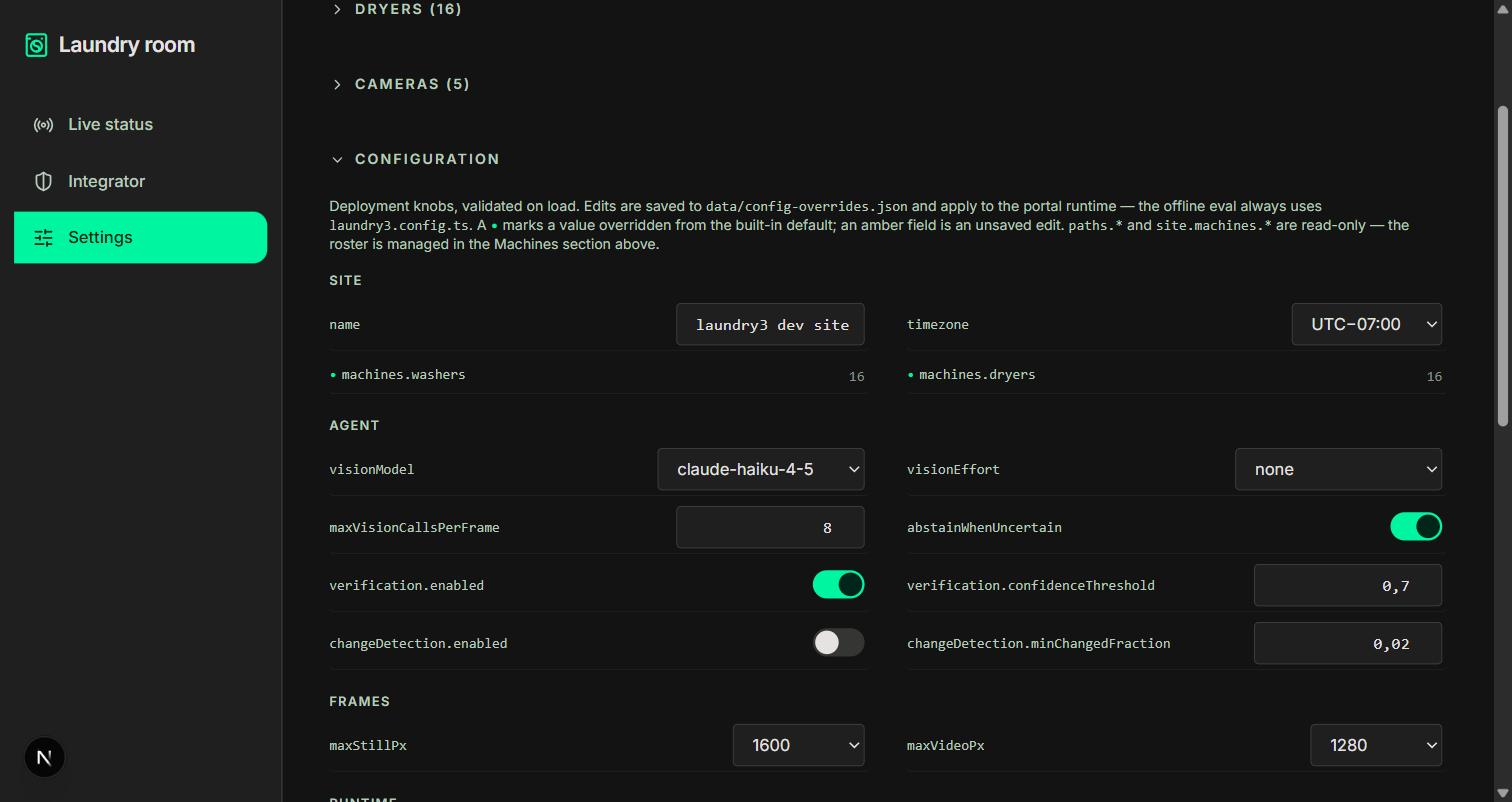
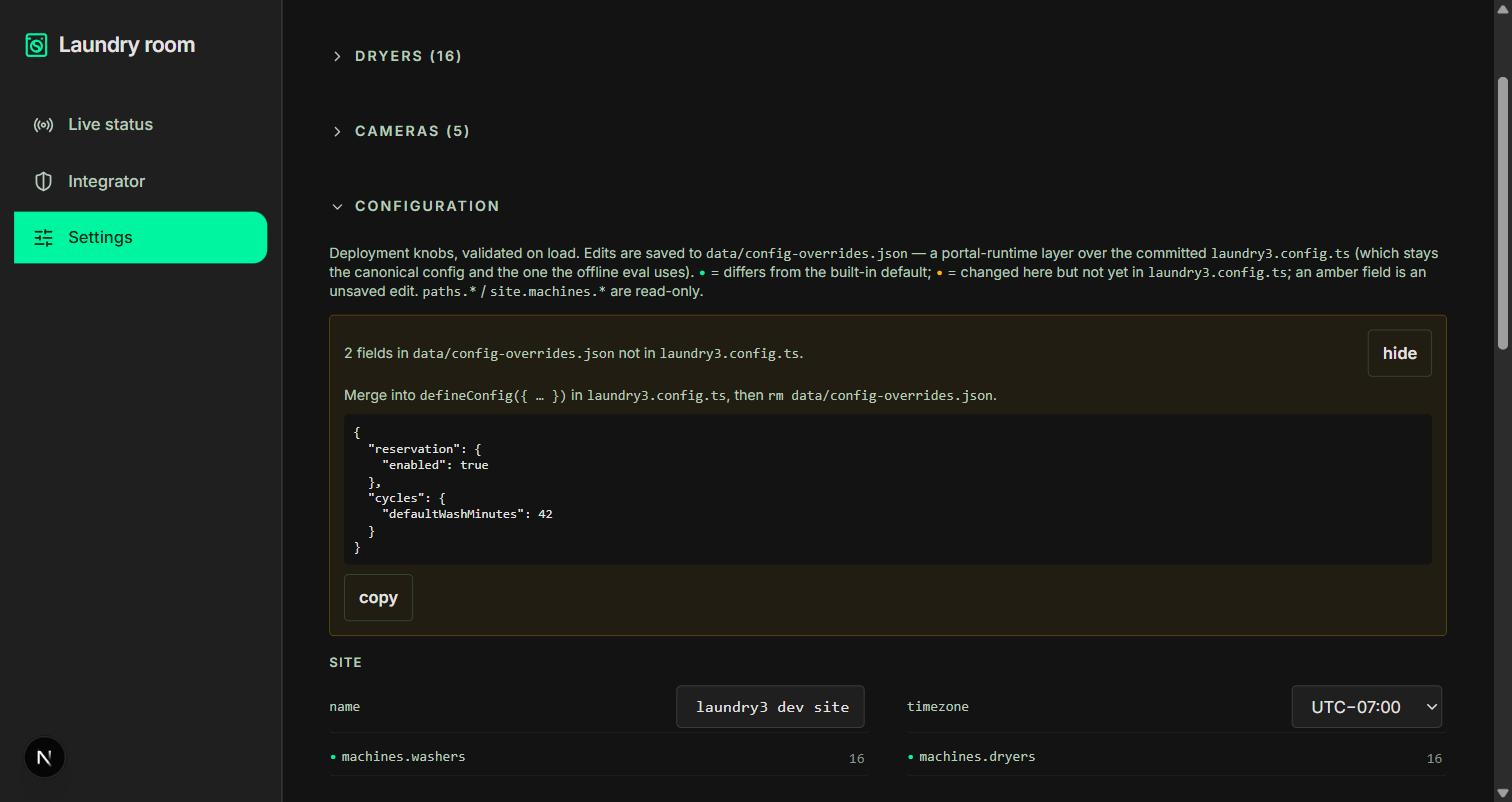
Configuration: show config-overrides.json vs laundry3.config.ts
laundry3.config.ts stays the canonical config (and the one the offline
eval uses); config-overrides.json is a portal-runtime layer on top. Make
the split visible instead of hiding it:

- overrides.ts: diffPaths (exported), baseConfig() (= DEFAULT_CONFIG <-
  laundry3.config.ts), overrideFilePaths() (paths that live only in the
  overrides file). All read-only/pure.
- GET/PATCH /api/config: responses add `base` + `fromFile`.
- ConfigView: per-field `•` is mint for "differs from built-in default",
  amber for "in fromFile" (changed here, not yet in laundry3.config.ts).
  When any amber field exists, a banner shows the count + a "show
  laundry3.config.ts snippet" button emitting a defineConfig({...}) object
  literal of the *saved* values for those fields, with a copy button.
  Intro rewritten to explain the layer model.

Portal-runtime read-only; overrides file still git-ignored and never read
by src/agent/* or src/eval/*. typecheck / lint / build / format:check pass;
npm test 61/61; check:data pass. Curl + Chrome verified (fromFile = exactly
the PATCHed fields; snippet matches).

Also restored a stray working-tree edit to .gitignore (!.env.example had
been commented out by a prior stray prettier run; HEAD was correct).

Compliance: PASS. (One cosmetic reviewer note folded in: snippet now reads
saved values, not the unsaved draft.)

Claude-Session: https://claude.ai/code/session_01Jm2SYvnJZUb5J2RVzmE1MT

diff --git a/src/components/config-view.tsx b/src/components/config-view.tsx
@@ -9,7 +9,13 @@ import { Switch } from "@/components/ui/switch";
 import type { Laundry3Config } from "@/config";
 
 type Cfg = Laundry3Config;
-type Payload = { config?: Cfg; defaults?: Cfg; overridden?: string[]; locked?: string[] };
+type Payload = {
+  config?: Cfg;
+  defaults?: Cfg;
+  overridden?: string[];
+  fromFile?: string[];
+  locked?: string[];
+};
 type Leaf = string | number | boolean;
 
 const GROUPS: { key: keyof Cfg; title: string }[] = [
@@ -184,9 +190,11 @@ export function ConfigView() {
   const [draft, setDraft] = useState<Cfg | null>(null);
   const [defaults, setDefaults] = useState<Cfg | null>(null);
   const [overridden, setOverridden] = useState<Set<string>>(new Set());
+  const [fromFile, setFromFile] = useState<Set<string>>(new Set());
   const [locked, setLocked] = useState<string[]>(["paths.", "site.machines."]);
   const [busy, setBusy] = useState(false);
   const [err, setErr] = useState<string | null>(null);
+  const [snippet, setSnippet] = useState<string | null>(null);
 
   function apply(d: Payload) {
     if (d.config) {
@@ -195,7 +203,18 @@ export function ConfigView() {
     }
     if (d.defaults) setDefaults(d.defaults);
     setOverridden(new Set(d.overridden ?? []));
+    setFromFile(new Set(d.fromFile ?? []));
     if (d.locked) setLocked(d.locked);
+    setSnippet(null);
+  }
+
+  /** An object literal (JSON — quoted keys are valid TS) of the *saved* values that live
+   *  only in the overrides file. Paste into `defineConfig(…)`, then delete the file. */
+  function buildSnippet(): string {
+    if (!loaded) return "{}";
+    let obj: Record<string, unknown> = {};
+    for (const p of fromFile) obj = setPath(obj, p, getPath(loaded, p));
+    return JSON.stringify(obj, null, 2);
   }
 
   useEffect(() => {
@@ -253,16 +272,54 @@ export function ConfigView() {
 
   return (
     <Section title="Configuration">
-      <p className="text-on-surface-variant mb-4 text-xs">
+      <p className="text-on-surface-variant mb-3 text-xs">
         Deployment knobs, validated on load. Edits are saved to{" "}
-        <span className="font-mono">data/config-overrides.json</span> and apply to the portal
-        runtime — the offline eval always uses <span className="font-mono">laundry3.config.ts</span>
-        . A <span className="text-primary-container">•</span> marks a value overridden from the
-        built-in default; an amber field is an unsaved edit.{" "}
-        <span className="font-mono">paths.*</span> and{" "}
-        <span className="font-mono">site.machines.*</span> are read-only — the roster is managed in
-        the Machines section above.
+        <span className="font-mono">data/config-overrides.json</span> — a portal-runtime layer over
+        the committed <span className="font-mono">laundry3.config.ts</span> (which stays the
+        canonical config and the one the offline eval uses).{" "}
+        <span className="text-primary-container">•</span> = differs from the built-in default;{" "}
+        <span className="text-secondary-container">•</span> = changed here but not yet in{" "}
+        <span className="font-mono">laundry3.config.ts</span>; an amber field is an unsaved edit.{" "}
+        <span className="font-mono">paths.*</span> /{" "}
+        <span className="font-mono">site.machines.*</span> are read-only.
       </p>
+
+      {fromFile.size > 0 && draft && (
+        <div className="border-secondary-container/30 bg-secondary-container/[0.06] mb-4 rounded border p-3 text-xs">
+          <div className="flex flex-wrap items-center justify-between gap-2">
+            <span className="text-on-surface-variant">
+              {fromFile.size} field{fromFile.size === 1 ? "" : "s"} in{" "}
+              <span className="font-mono">data/config-overrides.json</span> not in{" "}
+              <span className="font-mono">laundry3.config.ts</span>.
+            </span>
+            <Button
+              variant="outline"
+              onClick={() => setSnippet((s) => (s === null ? buildSnippet() : null))}
+            >
+              {snippet === null ? "show laundry3.config.ts snippet" : "hide"}
+            </Button>
+          </div>
+          {snippet !== null && (
+            <>
+              <p className="text-on-surface-variant mt-2">
+                Merge into <span className="font-mono">defineConfig(&#123; … &#125;)</span> in{" "}
+                <span className="font-mono">laundry3.config.ts</span>, then{" "}
+                <span className="font-mono">rm data/config-overrides.json</span>.
+              </p>
+              <pre className="bg-surface text-2xs text-on-surface mt-2 overflow-x-auto rounded p-2 font-mono">
+                {snippet}
+              </pre>
+              <Button
+                variant="outline"
+                className="mt-2"
+                onClick={() => void navigator.clipboard?.writeText(snippet).catch(() => {})}
+              >
+                copy
+              </Button>
+            </>
+          )}
+        </div>
+      )}
 
       {!draft ? (
         <p className="text-on-surface-variant text-xs">loading…</p>
@@ -287,8 +344,15 @@ export function ConfigView() {
                         }`}
                       >
                         <dt className="text-on-surface-variant min-w-0 truncate font-mono text-xs">
-                          {overridden.has(path) && (
-                            <span className="text-primary-container mr-1" aria-hidden="true">
+                          {(fromFile.has(path) || overridden.has(path)) && (
+                            <span
+                              className={`mr-1 ${
+                                fromFile.has(path)
+                                  ? "text-secondary-container"
+                                  : "text-primary-container"
+                              }`}
+                              aria-hidden="true"
+                            >
                               •
                             </span>
                           )}

diff --git a/src/app/api/config/route.ts b/src/app/api/config/route.ts
@@ -1,8 +1,12 @@
 /**
  * Deployment config for the integrator console.
  *
- *   GET   /api/config              -> { ok, config, defaults, overridden, locked }
- *   PATCH /api/config  <patch>     -> { ok, config, overridden }   (400 on invalid merge)
+ *   GET   /api/config              -> { ok, config, defaults, base, overridden, fromFile, locked }
+ *   PATCH /api/config  <patch>     -> { ok, config, overridden, fromFile }   (400 on bad merge)
+ *
+ * `overridden` = paths differing from the built-in `DEFAULT_CONFIG`. `fromFile` = paths the
+ * portal has changed *from `laundry3.config.ts`* — i.e. what lives only in the git-ignored
+ * `data/config-overrides.json`, not the committed source.
  *
  * `config` is `src/config/defaults.ts` + `laundry3.config.ts` + `data/config-overrides.json`
  * (the last written by PATCH), merged and validated on every request. `patch` is a nested
@@ -22,7 +26,9 @@ import { NextResponse } from "next/server";
 import {
   DEFAULT_CONFIG,
   LOCKED_PREFIXES,
+  baseConfig,
   overriddenPaths,
+  overrideFilePaths,
   resolvePortalConfig,
   writeOverrides,
   type DeepPartial,
@@ -38,7 +44,9 @@ export function GET() {
     ok: true,
     config,
     defaults: DEFAULT_CONFIG,
+    base: baseConfig(),
     overridden: overriddenPaths(config),
+    fromFile: overrideFilePaths(),
     locked: LOCKED_PREFIXES,
   });
 }
@@ -55,7 +63,12 @@ export async function PATCH(req: Request) {
   }
   try {
     const config = writeOverrides(patch);
-    return NextResponse.json({ ok: true, config, overridden: overriddenPaths(config) });
+    return NextResponse.json({
+      ok: true,
+      config,
+      overridden: overriddenPaths(config),
+      fromFile: overrideFilePaths(),
+    });
   } catch (e) {
     return NextResponse.json(
       { error: e instanceof Error ? e.message : "invalid config" },

diff --git a/src/config/overrides.ts b/src/config/overrides.ts
@@ -76,19 +76,32 @@ export function writeOverrides(
   return resolved;
 }
 
+/** Dotted paths where `a` and `b` differ (recursing objects, comparing leaves). */
+export function diffPaths(a: unknown, b: unknown, prefix = ""): string[] {
+  if (a && b && typeof a === "object" && !Array.isArray(a)) {
+    return Object.keys(a as Record<string, unknown>).flatMap((k) =>
+      diffPaths(
+        (a as Record<string, unknown>)[k],
+        (b as Record<string, unknown>)[k],
+        prefix ? `${prefix}.${k}` : k,
+      ),
+    );
+  }
+  return a === b ? [] : [prefix];
+}
+
 /** Dotted paths whose value in `cfg` differs from `DEFAULT_CONFIG`. */
 export function overriddenPaths(cfg: Laundry3Config): string[] {
-  const walk = (a: unknown, b: unknown, prefix = ""): string[] => {
-    if (a && b && typeof a === "object" && !Array.isArray(a)) {
-      return Object.keys(a as Record<string, unknown>).flatMap((k) =>
-        walk(
-          (a as Record<string, unknown>)[k],
-          (b as Record<string, unknown>)[k],
-          prefix ? `${prefix}.${k}` : k,
-        ),
-      );
-    }
-    return a === b ? [] : [prefix];
-  };
-  return walk(cfg, DEFAULT_CONFIG);
+  return diffPaths(cfg, DEFAULT_CONFIG);
+}
+
+/** Base config = `DEFAULT_CONFIG ← laundry3.config.ts`, i.e. without the overrides file. */
+export function baseConfig(): Laundry3Config {
+  return loadConfig(userConfig as DeepPartial<Laundry3Config>);
+}
+
+/** Dotted paths the portal has changed *from `laundry3.config.ts`* (i.e. live in the
+ *  overrides file but not the committed source). */
+export function overrideFilePaths(): string[] {
+  return diffPaths(resolvePortalConfig(), baseConfig());
 }

diff --git a/src/config/index.ts b/src/config/index.ts
@@ -8,6 +8,9 @@ export {
   readOverrides,
   writeOverrides,
   overriddenPaths,
+  overrideFilePaths,
+  baseConfig,
+  diffPaths,
   OVERRIDES_FILE,
   LOCKED_PREFIXES,
 } from "./overrides";

diff --git a/docs/WORKLOG.md b/docs/WORKLOG.md
@@ -12,6 +12,30 @@ Entry format:
 
 ## Log
 
+### 2026-08-29 — Configuration: show what's in `config-overrides.json` vs `laundry3.config.ts`
+
+- Owner asked whether `laundry3.config.ts` is still the main config now that portal edits
+  don't touch it. Answer: yes — it stays canonical (and is the eval's config);
+  `config-overrides.json` is a portal-runtime layer on top. Chose to keep the split and make
+  it visible (vs. rewriting the commented `.ts` file or moving values to JSON).
+- **`GET/PATCH /api/config`** now also return **`base`** (`DEFAULT_CONFIG ← laundry3.config.ts`,
+  no overrides) and **`fromFile`** — the dotted paths where the resolved portal config
+  differs from `base`, i.e. what lives only in the git-ignored overrides file.
+  `overrides.ts` gains `diffPaths` (exported), `baseConfig()`, `overrideFilePaths()`.
+- **`ConfigView`**: a `•` is now **mint** for "differs from the built-in default" and
+  **amber** for "changed here but not yet in `laundry3.config.ts`". When any amber field
+  exists, a banner shows the count + a **"show laundry3.config.ts snippet"** button that
+  emits a `defineConfig({ … })` object literal for exactly those fields (paste in, then
+  `rm data/config-overrides.json`) with a `copy` button. Intro rewritten to explain the
+  layer model.
+- Verification: `typecheck` / `lint` / `build` / `format:check` — **pass**; `npm test` —
+  **61/61**; `check:data` — **pass**. Curl: after a PATCH setting `reservation.enabled` +
+  `cycles.defaultWashMinutes`, `fromFile` lists exactly those two; `overridden` still lists
+  them plus the `site.machines.*` values that come from `laundry3.config.ts`. Chrome: the
+  banner reads "2 fields … not in laundry3.config.ts" and the snippet is the matching
+  nested object. `docs/assets/portal-settings.jpg` regenerated. Restored a stray
+  working-tree edit to `.gitignore` (`!.env.example` had been commented out).
+
 ### 2026-08-29 — Reservations: reworked mechanic (occupied, no cancel, one-at-a-time)
 
 - Owner: (1) the user cannot cancel a hold or move it to another machine; (2) once their

diff --git a/docs/CHANGELOG.md b/docs/CHANGELOG.md
@@ -103,6 +103,17 @@ the metric — not the demo — tell you whether the agent is better.
 
 Record the result of each infra verification here (append, newest first).
 
+### 2026-08-29 — configuration: surface overrides-file vs laundry3.config.ts
+
+- `GET/PATCH /api/config` add `base` + `fromFile` (paths changed from `laundry3.config.ts`,
+  i.e. only in the git-ignored overrides file). `overrides.ts` exports `diffPaths`,
+  `baseConfig`, `overrideFilePaths`. `ConfigView`: amber `•` = "not yet in
+  `laundry3.config.ts`" (mint `•` stays "differs from default"); a banner + "show
+  laundry3.config.ts snippet" button emits a `defineConfig({…})` literal for those fields.
+- `typecheck` / `lint` / `build` / `format:check` — **pass**; `npm test` — **61/61**;
+  `check:data` — **pass**. Curl + Chrome verified (`fromFile` = exactly the PATCHed fields;
+  snippet matches). Screenshot regenerated.
+
 ### 2026-08-29 — reservations: reworked mechanic
 
 - A held machine now reads `occupied` to everyone (`buildRoomStatus` flips the state);

diff --git a/docs/DECISIONS.md b/docs/DECISIONS.md
@@ -427,6 +427,11 @@ grouped, an input per field (`paths.*` read-only), a `•` on values that differ
   read the overrides file — the submitted eval config stays hand-edited in
   `laundry3.config.ts`. Only portal consumers opt in: `GET /api/config` and
   `src/app/integrator/page.tsx` (`refreshSeconds`). `to restore: rm data/config-overrides.json`.
+- **`laundry3.config.ts` stays canonical, and the split is made visible.** `GET /api/config`
+  returns `fromFile` (paths that differ from `DEFAULT_CONFIG ← laundry3.config.ts`), the
+  Configuration section marks those fields with an amber `•`, and a button emits a
+  `defineConfig({…})` snippet so an operator can fold portal edits back into the committed
+  file when they want them permanent, then delete the overrides file.
 
 **Amendment (2026-08-29) — config surface = deployment knobs only.** `frames.videoFps`
 (the video frame-sampling rate) was removed from the schema — it is a one-off dataset-prep
